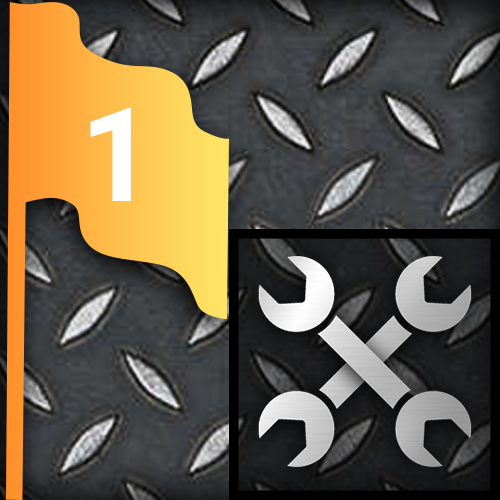
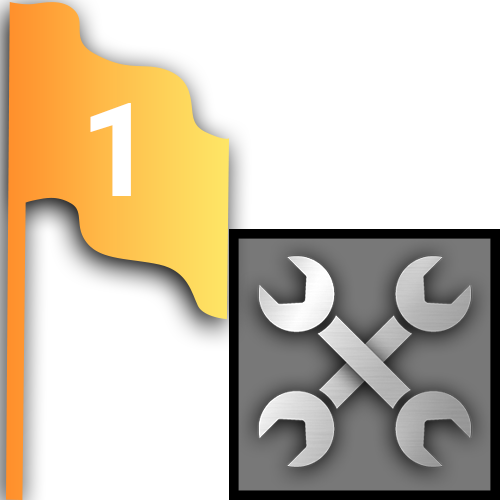
Cleaned up some textures. Now using alpha channels. Removed unused textures.

diff --git a/src/main/java/inf112/skeleton/app/Game.java b/src/main/java/inf112/skeleton/app/Game.java
@@ -8,6 +8,7 @@ import com.badlogic.gdx.graphics.OrthographicCamera;
 import com.badlogic.gdx.graphics.Texture;
 import com.badlogic.gdx.graphics.g2d.Sprite;
 import com.badlogic.gdx.graphics.g2d.SpriteBatch;
+import inf112.skeleton.app.Sprites.AbstractSprite;
 import inf112.skeleton.app.Sprites.Direction;
 import inf112.skeleton.app.Sprites.Flag;
 import inf112.skeleton.app.Sprites.Player;
@@ -88,14 +89,26 @@ public class Game implements ApplicationListener {
         }
         for(int x = 0; x < boardSize; x++){
             for(int y = 0; y < boardSize; y++){
-                Sprite sprite = board.getPosition(x, y);
-                sprite.setSize(camera.viewportWidth/boardSize, camera.viewportWidth/boardSize);
-                sprite.setX(x*(camera.viewportWidth/boardSize));
-                sprite.setY(y*(camera.viewportHeight/boardSize));
-                sprite.draw(batch);
+                //render ground under whole board
+                AbstractSprite ground = board.getSpriteMap().get("g");
+                renderSprite(ground, x, y);
+                ground.draw(batch);
+
+                //Render anything on top of ground
+                AbstractSprite sprite = board.getPosition(x, y);
+                if(!sprite.getShortName().equals("g")){
+                    renderSprite(sprite, x , y);
+                    sprite.draw(batch);
+                }
             }
         }
         batch.end();
+    }
+
+    private void renderSprite(AbstractSprite sprite, int x, int y) {
+        sprite.setSize(camera.viewportWidth/boardSize, camera.viewportWidth/boardSize);
+        sprite.setX(x*(camera.viewportWidth/boardSize));
+        sprite.setY(y*(camera.viewportHeight/boardSize));
     }
 
     /**

diff --git a/src/main/java/inf112/skeleton/app/Board.java b/src/main/java/inf112/skeleton/app/Board.java
@@ -55,7 +55,7 @@ public class Board {
                 for(int i=0; i<items.length; i++){
                     if(items[i].matches("p\\d+")) {
                         playerNum += 1;
-                        Player player = new Player(k, i, new Texture("src\\main\\tex\\player" + playerNum + "up.png"), playerNum);
+                        Player player = new Player(k, i, new Texture("src\\main\\tex\\player" + playerNum + ".png"), playerNum);
                         player.setBoard(this);
                         spriteMap.put(player.getShortName(), player);
                         playerList.add(player);

diff --git a/src/test/java/inf112/skeleton/app/TestTest.java b/src/test/java/inf112/skeleton/app/TestTest.java
@@ -1,0 +1,10 @@
+package inf112.skeleton.app;
+
+import org.junit.Test;
+import static org.junit.jupiter.api.Assertions.assertEquals;
+public class TestTest {
+    @Test
+    public void test(){
+        assertEquals(1,1);
+    }
+}
